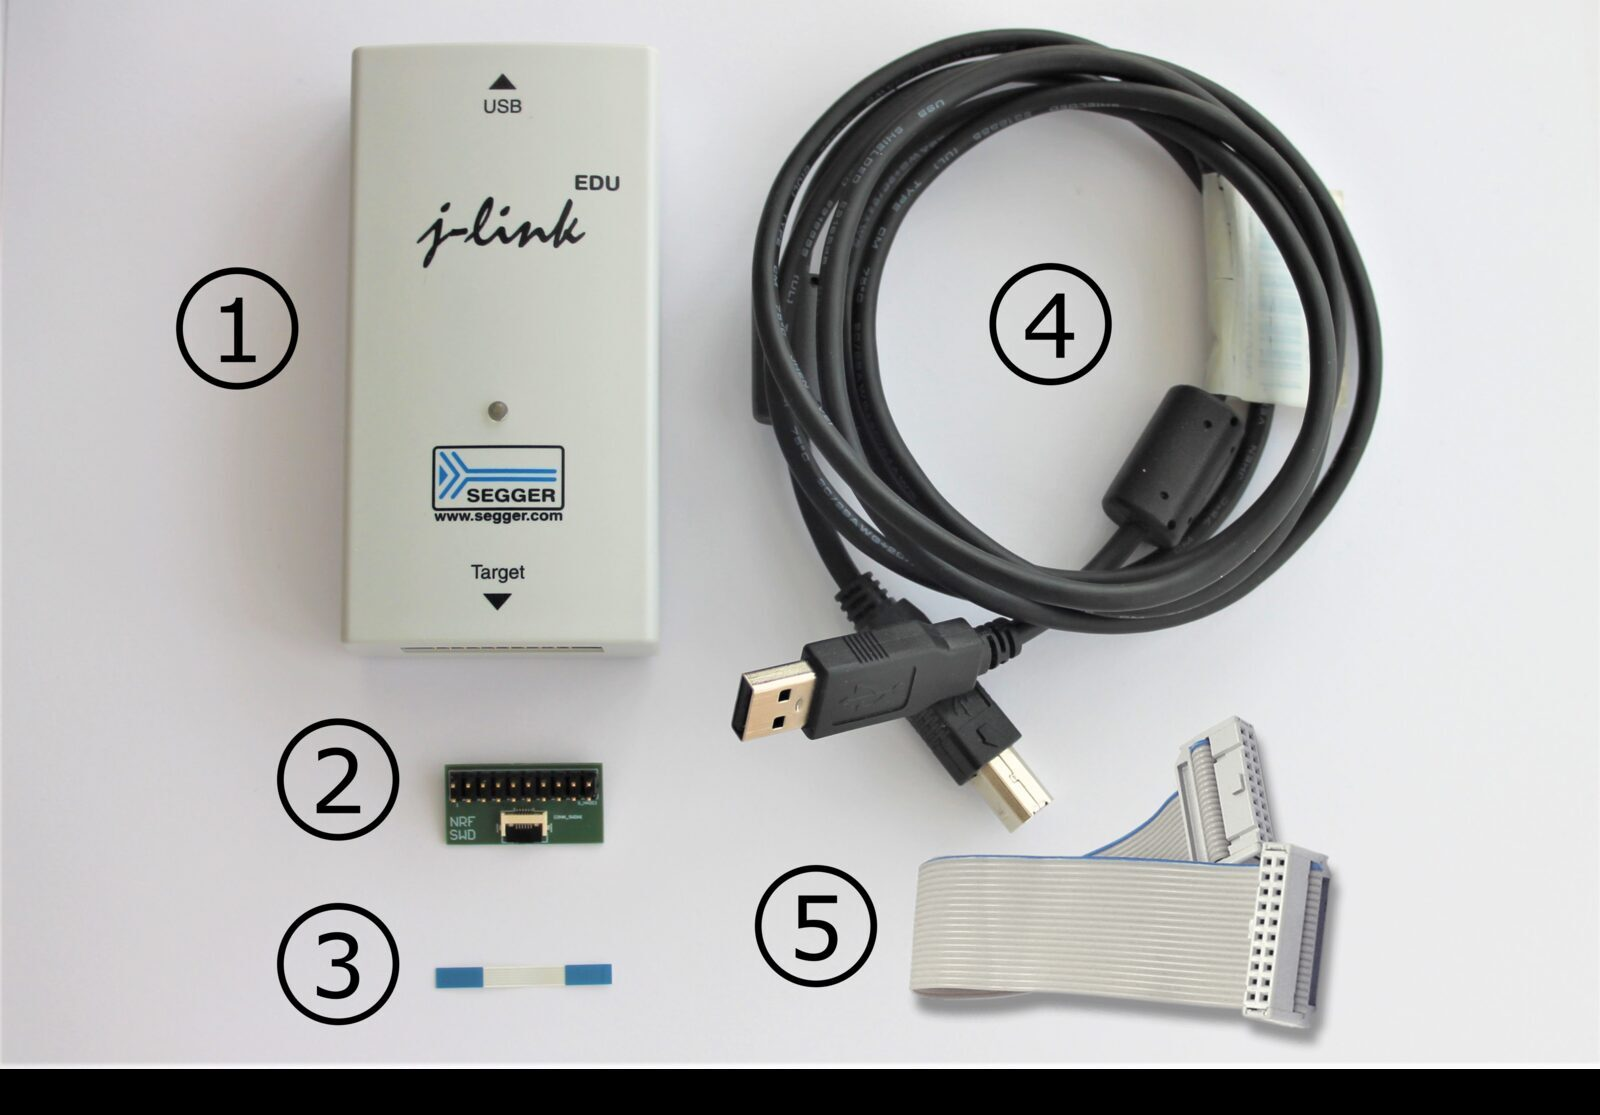
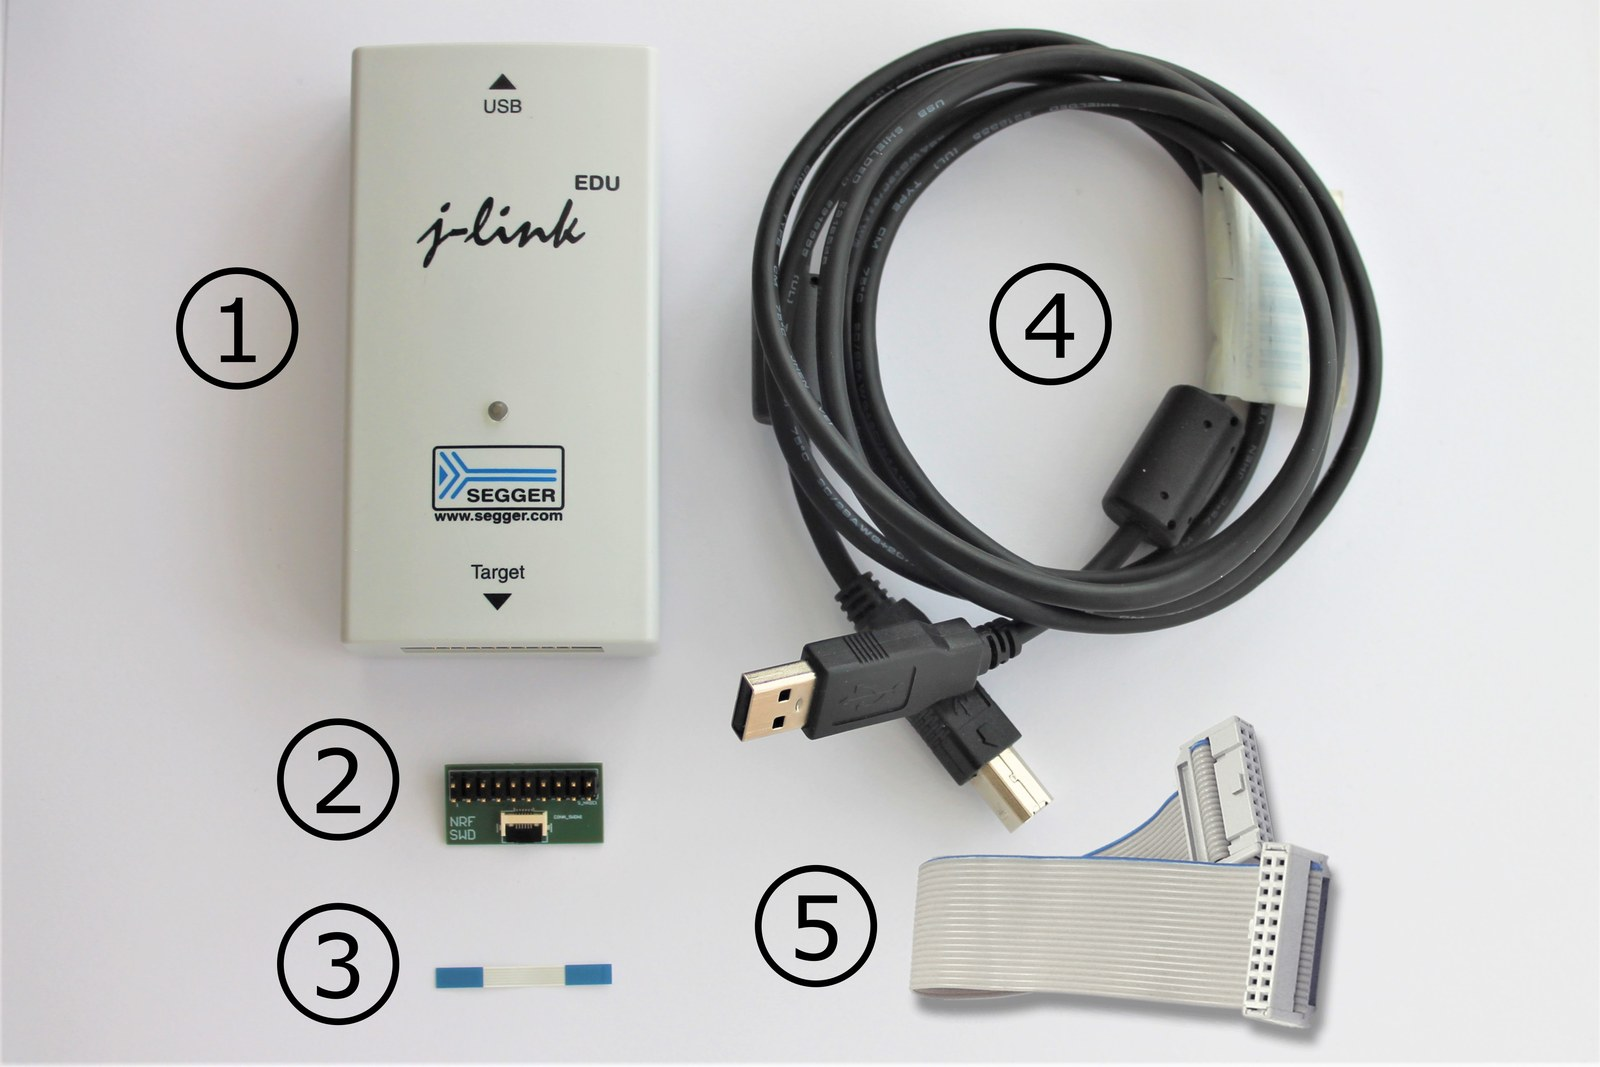
center images, fix enumeration

diff --git a/docs/stylesheets/extra.css b/docs/stylesheets/extra.css
@@ -1,0 +1,7 @@
+.md-typeset p:has(img) {
+  text-align: center;
+}
+
+.md-typeset p:has(img) + p:has(> em) {
+  text-align: center;
+}

diff --git a/docs/building-your-wulpus.md b/docs/building-your-wulpus.md
@@ -246,7 +246,7 @@ If a 3D printer is unavailable, you can order the mold from a 3D printing servic
 
 It is highly recommended to wear nitrile gloves throughout these steps, especially when handling the Ecoflex™ silicone rubber.
 
-#### I. Preparing the Mold
+#### Preparing the Mold
 
 1. Coat the walls of the hollow part of the mold with Vaseline.
 2. Insert the inner mold part, ensuring the holes on both parts align.
@@ -255,9 +255,9 @@ It is highly recommended to wear nitrile gloves throughout these steps, especial
 ![Mold assembly.](figures/setup/mold_assembly.jpg){ width="45%" }
 ![Assembled mold.](figures/setup/mold_assembly_photo.jpeg){ width="45%" }
 
-*3D printed mold for the WULPUS silicone package. (a) Mold assembly. (b) Assembled mold.*
+*3D printed mold for the WULPUS silicone package: assembly drawing (left) and assembled mold (right).*
 
-#### II. Mixing the Ecoflex™
+#### Mixing the Ecoflex™
 
 1. Thoroughly pre-mix Parts A and B before starting.
 2. Dispense 10 ml of each part (A and B) into the mixing container (1:1 ratio by volume or weight).
@@ -273,9 +273,9 @@ It is highly recommended to wear nitrile gloves throughout these steps, especial
 ![Mixed EcoFlex components.](figures/setup/ecolflex_mixture.jpeg){ width="45%" }
 ![Degassing the mixture.](figures/setup/ecoflex_degassing.jpeg){ width="45%" }
 
-*Preparing the Ecoflex silicone rubber. (a) Mixed EcoFlex components. (b) Degassing the mixture.*
+*Preparing the Ecoflex silicone rubber: mixed components (left) and degassing (right).*
 
-#### III. Pouring the Ecoflex™ Mixture
+#### Pouring the Ecoflex™ Mixture
 
 1. Secure the mold in a vertical position and slowly pour the Ecoflex mixture until the mold's top surface is reached.
 2. Allow the silicone rubber to cure vertically for approximately four hours.
@@ -283,32 +283,37 @@ It is highly recommended to wear nitrile gloves throughout these steps, especial
 ![Pouring silicone rubber.](figures/setup/mold_fill.jpeg){ width="55%" }
 ![Poured mold.](figures/setup/mold_filled.jpeg){ width="35%" }
 
-*Pouring the Ecoflex mixture into the mold. (a) Pouring silicone rubber. (b) Poured mold.*
+*Pouring the Ecoflex mixture into the mold (left) and the filled mold (right).*
 
-#### IV. Removing the Sacrificial Parts
+#### Removing the Sacrificial Parts
 
-1. Once cured, remove the dowel pins (figure (a) below).
-2. Gently remove the silicone blank from the mold (figures (b) and (c) below).
-3. Cut an opening for the transducer connector as shown in the following figures.
+1. Once cured, remove the dowel pins.
 
-![Removing dowel pins.](figures/setup/mold_remove_a.jpeg){ width="30%" }
-![Removing the silicone blank.](figures/setup/mold_remove_b.jpeg){ width="30%" }
-![Extracted silicone blank.](figures/setup/mold_remove_c.jpeg){ width="30%" }
+    ![Removing the dowel pins.](figures/setup/mold_remove_a.jpeg){ width="40%" }
 
-*Removing the silicone blank from the mold. (a) Removing dowel pins. (b) Removing the silicone blank. (c) Extracted silicone blank.*
+    *Removing the dowel pins.*
 
-![Cutting the transducer connector opening.](figures/setup/mold_cut_openning.jpeg){ width="47%" }
-![Silicone package and removed plastic insert.](figures/setup/mold_remove_plastic_insert.jpeg){ width="45%" }
+2. Gently remove the silicone blank from the mold.
 
-*Preparing the final silicone package. (a) Cutting the transducer connector opening. (b) Silicone package and removed plastic insert.*
+    ![Removing the silicone blank.](figures/setup/mold_remove_b.jpeg){ width="30%" }
+    ![Extracted silicone blank.](figures/setup/mold_remove_c.jpeg){ width="30%" }
+
+    *Removing the silicone blank from the mold (left) and the extracted blank (right).*
+
+3. Cut an opening for the transducer connector as shown below.
+
+    ![Cutting the transducer connector opening.](figures/setup/mold_cut_openning.jpeg){ width="47%" }
+    ![Silicone package and removed plastic insert.](figures/setup/mold_remove_plastic_insert.jpeg){ width="45%" }
+
+    *Cutting the transducer connector opening (left). Silicone package with the plastic insert removed (right).*
 
 ### Producing a Silicone Cap
 
-For additional protection, consider fabricating a simple silicone cap to be inserted between the HV and acquisition PCBs near the transducer connector (figure (b) below). The 3D model for the mold is available in the repository (file `wulpus_silicone_cap_mold.stl`).
+For additional protection, consider fabricating a simple silicone cap to be inserted between the HV and acquisition PCBs near the transducer connector (right photo below). The 3D model for the mold is available in the repository (file `wulpus_silicone_cap_mold.stl`).
 
 Follow the same production steps outlined in [Production Steps](#silicone-package-production-steps), using the figure below as a reference.
 
 ![Silicone cap and mold.](figures/setup/mold_silicone_cap_removed.jpeg){ width="45%" }
 ![Cap inserted into WULPUS.](figures/setup/silicone_cap_inserted.jpeg){ width="45%" }
 
-*Silicone cap for the WULPUS probe. (a) Silicone cap and mold. (b) Cap inserted into WULPUS.*
+*Silicone cap for the WULPUS probe: cap and mold (left), cap inserted into WULPUS (right).*
